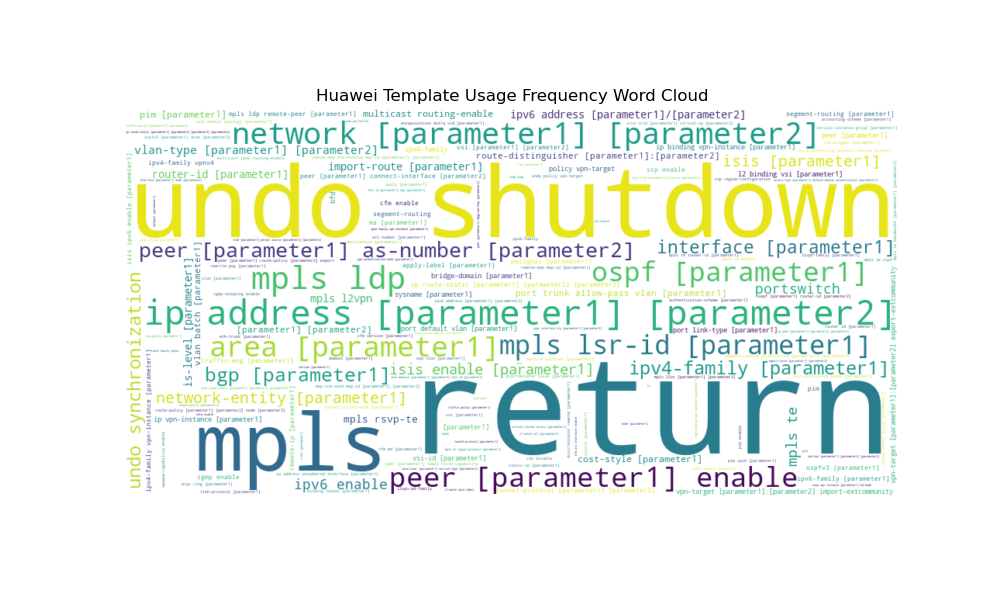
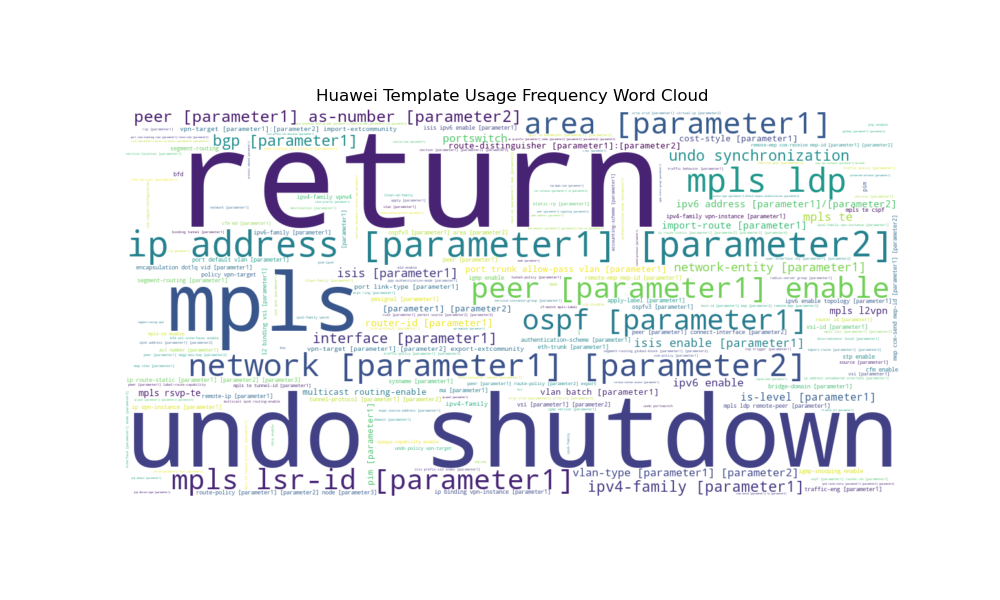
统计图

Changed region(s): [[0.124, 0.18, 0.899, 0.84]]

diff --git a/statistic/template_statistics_visualization.py b/statistic/template_statistics_visualization.py
@@ -31,16 +31,16 @@ for vendor in vendors:
     if vendor == "Juniper":
         top_n = 200
         top_word_freq = dict(sorted(word_freq.items(), key=lambda x: x[1], reverse=True)[:top_n])
-        wordcloud = WordCloud(width=1000, height=500, background_color='white',prefer_horizontal=1.0).generate_from_frequencies(top_word_freq)
+        wordcloud = WordCloud(width=1500, height=750, background_color='white',prefer_horizontal=1.0).generate_from_frequencies(top_word_freq)
     elif vendor == "Huawei":
-        top_n = 500
+        top_n = 1000
         top_word_freq = dict(sorted(word_freq.items(), key=lambda x: x[1], reverse=True)[:top_n])
-        wordcloud = WordCloud(width=1000, height=500, background_color='white').generate_from_frequencies(top_word_freq)
+        wordcloud = WordCloud(width=1200, height=600, background_color='white').generate_from_frequencies(top_word_freq)
 
     else:
         top_n = 300
         top_word_freq = dict(sorted(word_freq.items(), key=lambda x: x[1], reverse=True)[:top_n])
-        wordcloud = WordCloud(width=1000, height=500, background_color='white').generate_from_frequencies(top_word_freq)
+        wordcloud = WordCloud(width=1200, height=600, background_color='white').generate_from_frequencies(top_word_freq)
 
     # Plot word cloud
     plt.figure(figsize=(10, 6))
@@ -48,7 +48,6 @@ for vendor in vendors:
     plt.axis('off')
     plt.title(f'{vendor} Template Usage Frequency Word Cloud')
     plt.savefig(f"./statistic_res/{vendor}_template_usage_frequency_word_cloud.png")
-
 
     # Generate Cumulative Distribution Function (CDF) plot
     total_count = sum(data.values())  # 计算总次数
@@ -65,3 +64,15 @@ for vendor in vendors:
     plt.title(f'{vendor} Template Usage Probability Cumulative Distribution Function (CDF)')
     plt.grid(True)
     plt.savefig(f"./statistic_res/{vendor}_template_usage_probability_CDF.png")
+
+    # 绘制柱状图
+    top_n = 120
+    sorted_data = dict(sorted(data.items(), key=lambda x: x[1], reverse=True)[:top_n])
+    plt.figure(figsize=(10, 6))
+    plt.bar(sorted_data.keys(), sorted_data.values(), color='green')
+    plt.xlabel('Command Templates')
+    plt.ylabel('Usage Count')
+    plt.title(f'{vendor} Template Usage Count Bar Chart')
+    plt.xticks([])
+    plt.tight_layout()  # 自动调整布局
+    plt.savefig(f"./statistic_res/{vendor}_template_usage_count_bar_chart.png")
